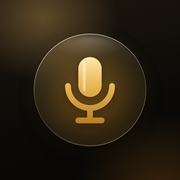
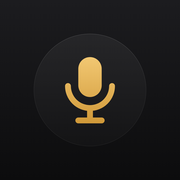
Иконка: минималистичная, без подсветки
Claude-Session: https://claude.ai/code/session_0153Ca9PwxTAUhg9Qyd8q6Hx

diff --git a/sw.js b/sw.js
@@ -1,5 +1,5 @@
 // Offline cache for Калькулятор lango.show. New version is picked up on the next launch after an update.
-const CACHE = 'lango-calc-c1fb7938';
+const CACHE = 'lango-calc-c1fb7939';
 const FILES = ['./', './index.html', './manifest.webmanifest', './icon-180.png', './icon-192.png', './icon-512.png', './icon-512-maskable.png'];
 self.addEventListener('install', e => { e.waitUntil(caches.open(CACHE).then(c => c.addAll(FILES)).then(() => self.skipWaiting())); });
 self.addEventListener('activate', e => { e.waitUntil(caches.keys().then(keys => Promise.all(keys.filter(k => k !== CACHE).map(k => caches.delete(k)))).then(() => self.clients.claim())); });
